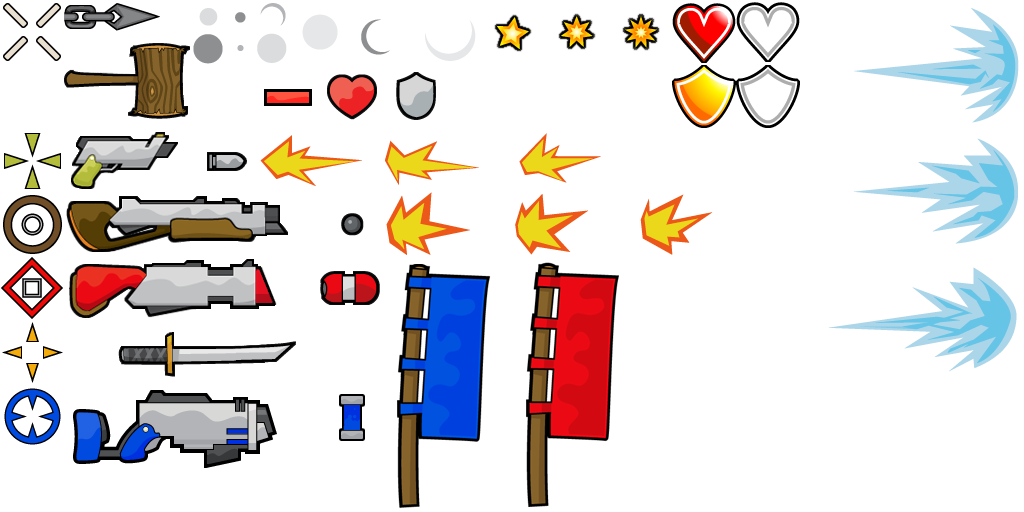
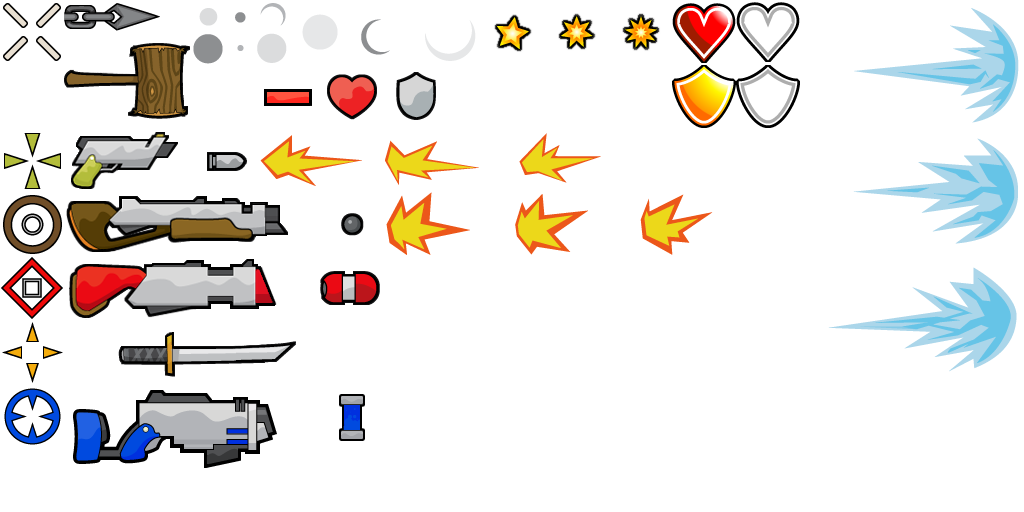
refactor

Changed region(s): [[0.375, 0.5, 0.625, 1.0]]

diff --git a/src/game/client/components/items.cpp b/src/game/client/components/items.cpp
@@ -209,17 +209,7 @@ void CItems::RenderPickup(const CNetObj_Pickup *pPrev, const CNetObj_Pickup *pCu
 
 void CItems::RenderFlag(const CNetObj_Flag *pPrev, const CNetObj_Flag *pCurrent, const CNetObj_GameData *pPrevGameData, const CNetObj_GameData *pCurGameData)
 {
-	float Size = 42.0f;
-
-	Graphics()->BlendNormal();
-	Graphics()->TextureSet(g_pData->m_aImages[IMAGE_FLAGS].m_Id);
-	Graphics()->QuadsBegin();
-
-	if(pCurrent->m_Team == TEAM_RED)
-		RenderTools()->SelectSprite(SPRITE_FLAG_RED01);
-	else
-		RenderTools()->SelectSprite(SPRITE_FLAG_BLUE01);
-
+	const float Size = 42.0f;
 	vec2 Pos = mix(vec2(pPrev->m_X, pPrev->m_Y), vec2(pCurrent->m_X, pCurrent->m_Y), Client()->IntraGameTick());
 
 	if(pCurGameData)
@@ -240,14 +230,14 @@ void CItems::RenderFlag(const CNetObj_Flag *pPrev, const CNetObj_Flag *pCurrent,
 
 	// H-Client
 	static int64 sAnimTime[] = { time_get(), time_get() };
-	static int sAnimState[] = { 2, 2 };
-	static const int sFlagAnim[][6] = {
+	static int sAnimIndex[] = { 2, 2 };
+	static const int sAnimIDs[][6] = {
 			{ SPRITE_FLAG_RED01, SPRITE_FLAG_RED02, SPRITE_FLAG_RED03, SPRITE_FLAG_RED04, SPRITE_FLAG_RED05, SPRITE_FLAG_RED06 },
 			{ SPRITE_FLAG_BLUE01, SPRITE_FLAG_BLUE02, SPRITE_FLAG_BLUE03, SPRITE_FLAG_BLUE04, SPRITE_FLAG_BLUE05, SPRITE_FLAG_BLUE06 }
 	};
-	float rot = 0.0f;
-	int inver = 1;
-	int sprite = -1;
+	float Rot = 0.0f;
+	int SpriteFlags = 0;
+	int SpriteID = -1;
 	CCharacterCore *pCharCore = 0x0;
 	if (pCurrent->m_Team == TEAM_RED && pPrevGameData->m_FlagCarrierRed != -1)
 		pCharCore = &m_pClient->m_aClients[pPrevGameData->m_FlagCarrierRed].m_Predicted;
@@ -259,7 +249,7 @@ void CItems::RenderFlag(const CNetObj_Flag *pPrev, const CNetObj_Flag *pCurrent,
 		// Position
 		if (pCharCore->m_Vel.x > 0)
 		{
-			inver = -1;
+			SpriteFlags = SPRITE_FLAG_FLIP_X;
 			if (pCharCore->m_Input.m_TargetX > 0)
 				Pos.x -= 24.0f;
 		}
@@ -267,35 +257,38 @@ void CItems::RenderFlag(const CNetObj_Flag *pPrev, const CNetObj_Flag *pCurrent,
 			Pos.x += 24.0f;
 
 		// Rotation
-		rot = -pCharCore->m_Vel.x / 100.0f;
+		Rot = -pCharCore->m_Vel.x / 100.0f;
 
 		// Wind Effect
 		if (abs(pCharCore->m_Vel.x) <= 0.15f)
-			sprite = sFlagAnim[pCurrent->m_Team][0];
+			SpriteID = sAnimIDs[pCurrent->m_Team][0];
 		else if (abs(pCharCore->m_Vel.x) > 0.15f && abs(pCharCore->m_Vel.x) <= 2.0f)
-			sprite = sFlagAnim[pCurrent->m_Team][1];
+			SpriteID = sAnimIDs[pCurrent->m_Team][1];
 		else
 		{
 			float step = max((18.0f-absolute(pCharCore->m_Vel.x))/100.0f, 0.05f);
 			if (time_get()-sAnimTime[pCurrent->m_Team] > step*time_freq())
 			{
 				sAnimTime[pCurrent->m_Team] = time_get();
-				sAnimState[pCurrent->m_Team]++;
-				if (sAnimState[pCurrent->m_Team] > 5)
-					sAnimState[pCurrent->m_Team] = 2;
+				sAnimIndex[pCurrent->m_Team]++;
+				if (sAnimIndex[pCurrent->m_Team] > 5)
+					sAnimIndex[pCurrent->m_Team] = 2;
 			}
-			sprite = sFlagAnim[pCurrent->m_Team][sAnimState[pCurrent->m_Team]];
+			SpriteID = sAnimIDs[pCurrent->m_Team][sAnimIndex[pCurrent->m_Team]];
 		}
 	}
 	else
-		sprite = sFlagAnim[pCurrent->m_Team][0];
+		SpriteID = sAnimIDs[pCurrent->m_Team][0];
 	//
 
 
-	RenderTools()->SelectSprite(sprite);
-	IGraphics::CQuadItem QuadItem(Pos.x, Pos.y-Size*0.75f, Size*inver, Size*2);
-	Graphics()->QuadsSetRotation(rot);
-	Graphics()->QuadsDraw(&QuadItem, 1);
+	Graphics()->BlendNormal();
+	Graphics()->TextureSet(g_pData->m_aImages[IMAGE_FLAGS].m_Id);
+	Graphics()->QuadsBegin();
+		RenderTools()->SelectSprite(SpriteID, SpriteFlags);
+		IGraphics::CQuadItem QuadItem(Pos.x, Pos.y-Size*0.75f, Size, Size*2);
+		Graphics()->QuadsSetRotation(Rot);
+		Graphics()->QuadsDraw(&QuadItem, 1);
 	Graphics()->QuadsEnd();
 }
 

diff --git a/src/game/client/components/killmessages.cpp b/src/game/client/components/killmessages.cpp
@@ -103,18 +103,18 @@ void CKillMessages::OnRender()
 		// render victim tee
 		x -= 24.0f;
 
-		if(m_pClient->m_Snap.m_pGameInfoObj && m_pClient->m_Snap.m_pGameInfoObj->m_GameFlags&GAMEFLAG_FLAGS)
+		if(m_pClient->m_Snap.m_pGameInfoObj && (m_pClient->m_Snap.m_pGameInfoObj->m_GameFlags&GAMEFLAG_FLAGS))
 		{
 			if(m_aKillmsgs[r].m_ModeSpecial&1)
 			{
 				Graphics()->BlendNormal();
-				Graphics()->TextureSet(g_pData->m_aImages[IMAGE_GAME].m_Id);
+				Graphics()->TextureSet(g_pData->m_aImages[IMAGE_FLAGS].m_Id);
 				Graphics()->QuadsBegin();
 
 				if(m_aKillmsgs[r].m_VictimTeam == TEAM_RED)
-					RenderTools()->SelectSprite(SPRITE_FLAG_BLUE);
+					RenderTools()->SelectSprite(SPRITE_FLAG_BLUE03);
 				else
-					RenderTools()->SelectSprite(SPRITE_FLAG_RED);
+					RenderTools()->SelectSprite(SPRITE_FLAG_RED03);
 
 				float Size = 56.0f;
 				IGraphics::CQuadItem QuadItem(x, y-16, Size/2, Size);
@@ -160,18 +160,18 @@ void CKillMessages::OnRender()
 
 		if(m_aKillmsgs[r].m_VictimID != m_aKillmsgs[r].m_KillerID)
 		{
-			if(m_pClient->m_Snap.m_pGameInfoObj && m_pClient->m_Snap.m_pGameInfoObj->m_GameFlags&GAMEFLAG_FLAGS)
+			if(m_pClient->m_Snap.m_pGameInfoObj && (m_pClient->m_Snap.m_pGameInfoObj->m_GameFlags&GAMEFLAG_FLAGS))
 			{
 				if(m_aKillmsgs[r].m_ModeSpecial&2)
 				{
 					Graphics()->BlendNormal();
-					Graphics()->TextureSet(g_pData->m_aImages[IMAGE_GAME].m_Id);
+					Graphics()->TextureSet(g_pData->m_aImages[IMAGE_FLAGS].m_Id);
 					Graphics()->QuadsBegin();
 
 					if(m_aKillmsgs[r].m_KillerTeam == TEAM_RED)
-						RenderTools()->SelectSprite(SPRITE_FLAG_BLUE, SPRITE_FLAG_FLIP_X);
+						RenderTools()->SelectSprite(SPRITE_FLAG_BLUE03, SPRITE_FLAG_FLIP_X);
 					else
-						RenderTools()->SelectSprite(SPRITE_FLAG_RED, SPRITE_FLAG_FLIP_X);
+						RenderTools()->SelectSprite(SPRITE_FLAG_RED03, SPRITE_FLAG_FLIP_X);
 
 					float Size = 56.0f;
 					IGraphics::CQuadItem QuadItem(x-56, y-16, Size/2, Size);

diff --git a/src/game/client/components/scoreboard.cpp b/src/game/client/components/scoreboard.cpp
@@ -565,10 +565,10 @@ void CScoreboard::RenderScoreboard(float x, float y, float w, int Team, const ch
 			m_pClient->m_Snap.m_pGameDataObj->m_FlagCarrierBlue == pInfo->m_ClientID))
 		{
 			Graphics()->BlendNormal();
-			Graphics()->TextureSet(g_pData->m_aImages[IMAGE_GAME].m_Id);
+			Graphics()->TextureSet(g_pData->m_aImages[IMAGE_FLAGS].m_Id);
 			Graphics()->QuadsBegin();
 
-			RenderTools()->SelectSprite(pInfo->m_Team==TEAM_RED ? SPRITE_FLAG_BLUE : SPRITE_FLAG_RED, SPRITE_FLAG_FLIP_X);
+			RenderTools()->SelectSprite(pInfo->m_Team==TEAM_RED ? SPRITE_FLAG_BLUE03 : SPRITE_FLAG_RED03, SPRITE_FLAG_FLIP_X);
 
 			float Size = LineHeight;
 			IGraphics::CQuadItem QuadItem(TeeOffset+0.0f, y-5.0f-Spacing/2.0f+1.0f, Size/2.0f, Size);

diff --git a/src/game/client/components/hud.cpp b/src/game/client/components/hud.cpp
@@ -159,9 +159,9 @@ void CHud::RenderScoreHud()
 					{
 						// draw flag
 						Graphics()->BlendNormal();
-						Graphics()->TextureSet(g_pData->m_aImages[IMAGE_GAME].m_Id);
+						Graphics()->TextureSet(g_pData->m_aImages[IMAGE_FLAGS].m_Id);
 						Graphics()->QuadsBegin();
-						RenderTools()->SelectSprite(t==0?SPRITE_FLAG_RED:SPRITE_FLAG_BLUE);
+						RenderTools()->SelectSprite(t==0?SPRITE_FLAG_RED03:SPRITE_FLAG_BLUE03);
 						IGraphics::CQuadItem QuadItem(Whole-ScoreWidthMax-ImageSize, 246.0f+t*20, ImageSize/2, ImageSize);
 						Graphics()->QuadsDrawTL(&QuadItem, 1);
 						Graphics()->QuadsEnd();

diff --git a/datasrc/content.py b/datasrc/content.py
@@ -383,9 +383,6 @@ container.sprites.Add(Sprite("pickup_armor", set_game, 12,2,2,2))
 container.sprites.Add(Sprite("pickup_weapon", set_game, 3,0,6,2))
 container.sprites.Add(Sprite("pickup_ninja", set_game, 2,10,8,2))
 
-container.sprites.Add(Sprite("flag_blue", set_game, 12,8,4,8))
-container.sprites.Add(Sprite("flag_red", set_game, 16,8,4,8))
-
 container.sprites.Add(Sprite("tee_body", set_tee, 0,0,3,3))
 container.sprites.Add(Sprite("tee_body_outline", set_tee, 3,0,3,3))
 container.sprites.Add(Sprite("tee_foot", set_tee, 6,1,2,1))

diff --git a/src/engine/client/client.cpp b/src/engine/client/client.cpp
@@ -2400,7 +2400,7 @@ extern "C" int SDL_main(int argc, char **argv_) // ignore_convention
 {
 	const char **argv = const_cast<const char **>(argv_);
 #else
-int main(int argc, const char **argv) // ignore_convention
+int main(int argc, const char **argv) // ignore_conventi on
 {
 #endif
 #if defined(CONF_FAMILY_WINDOWS)
